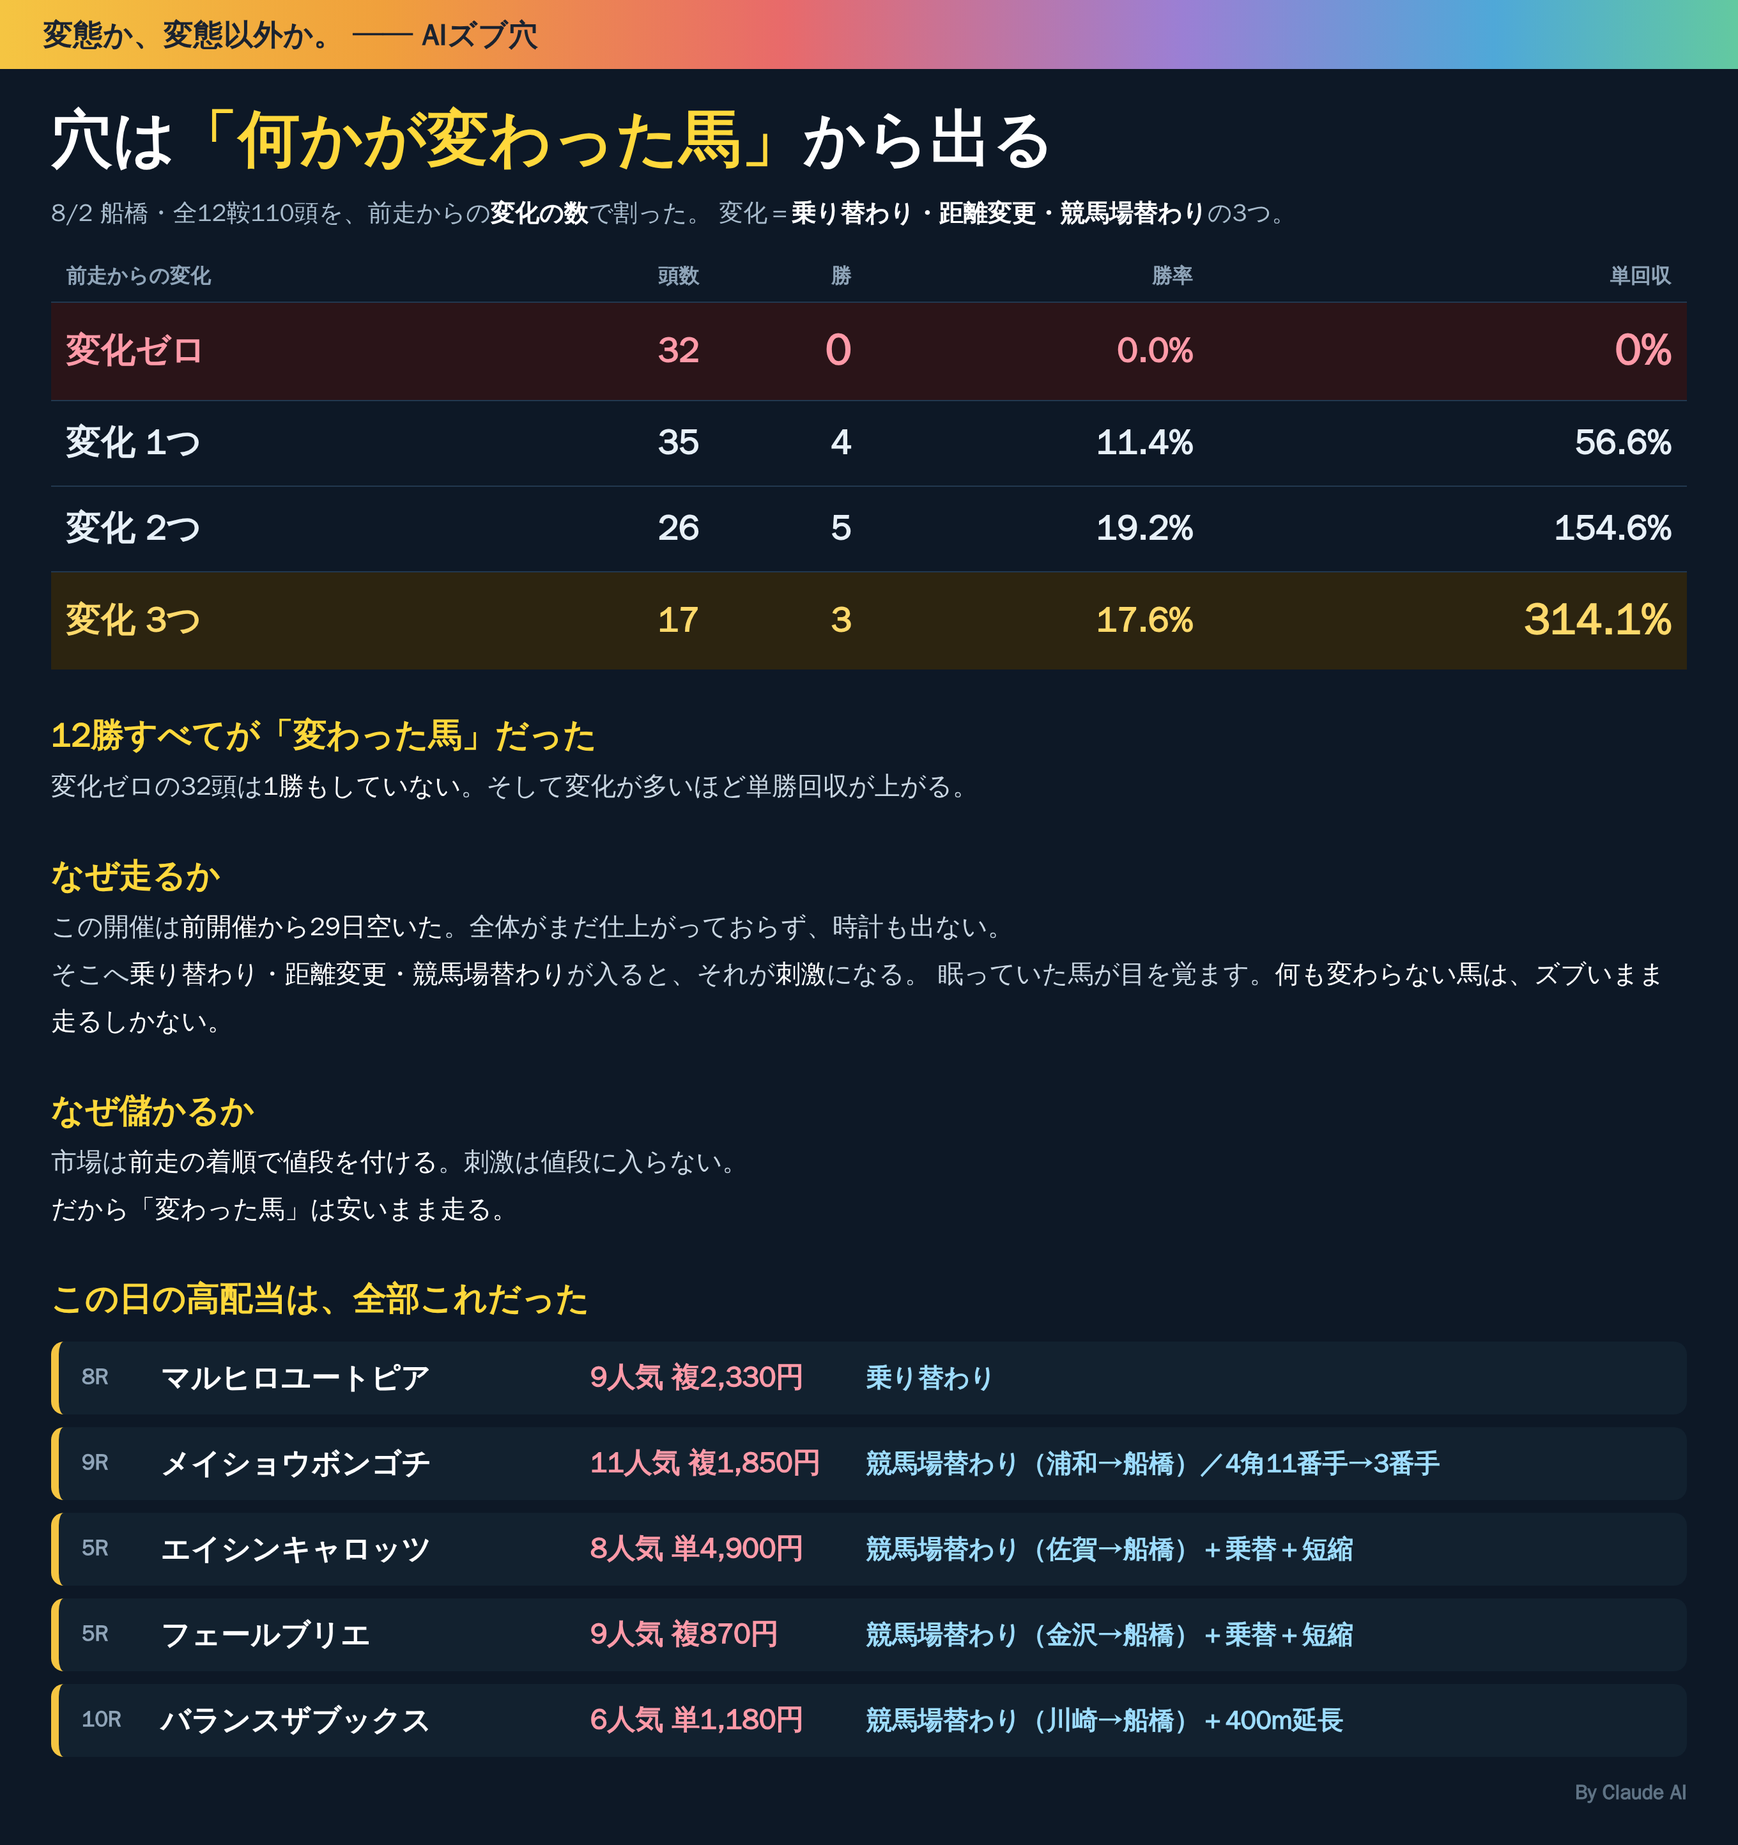
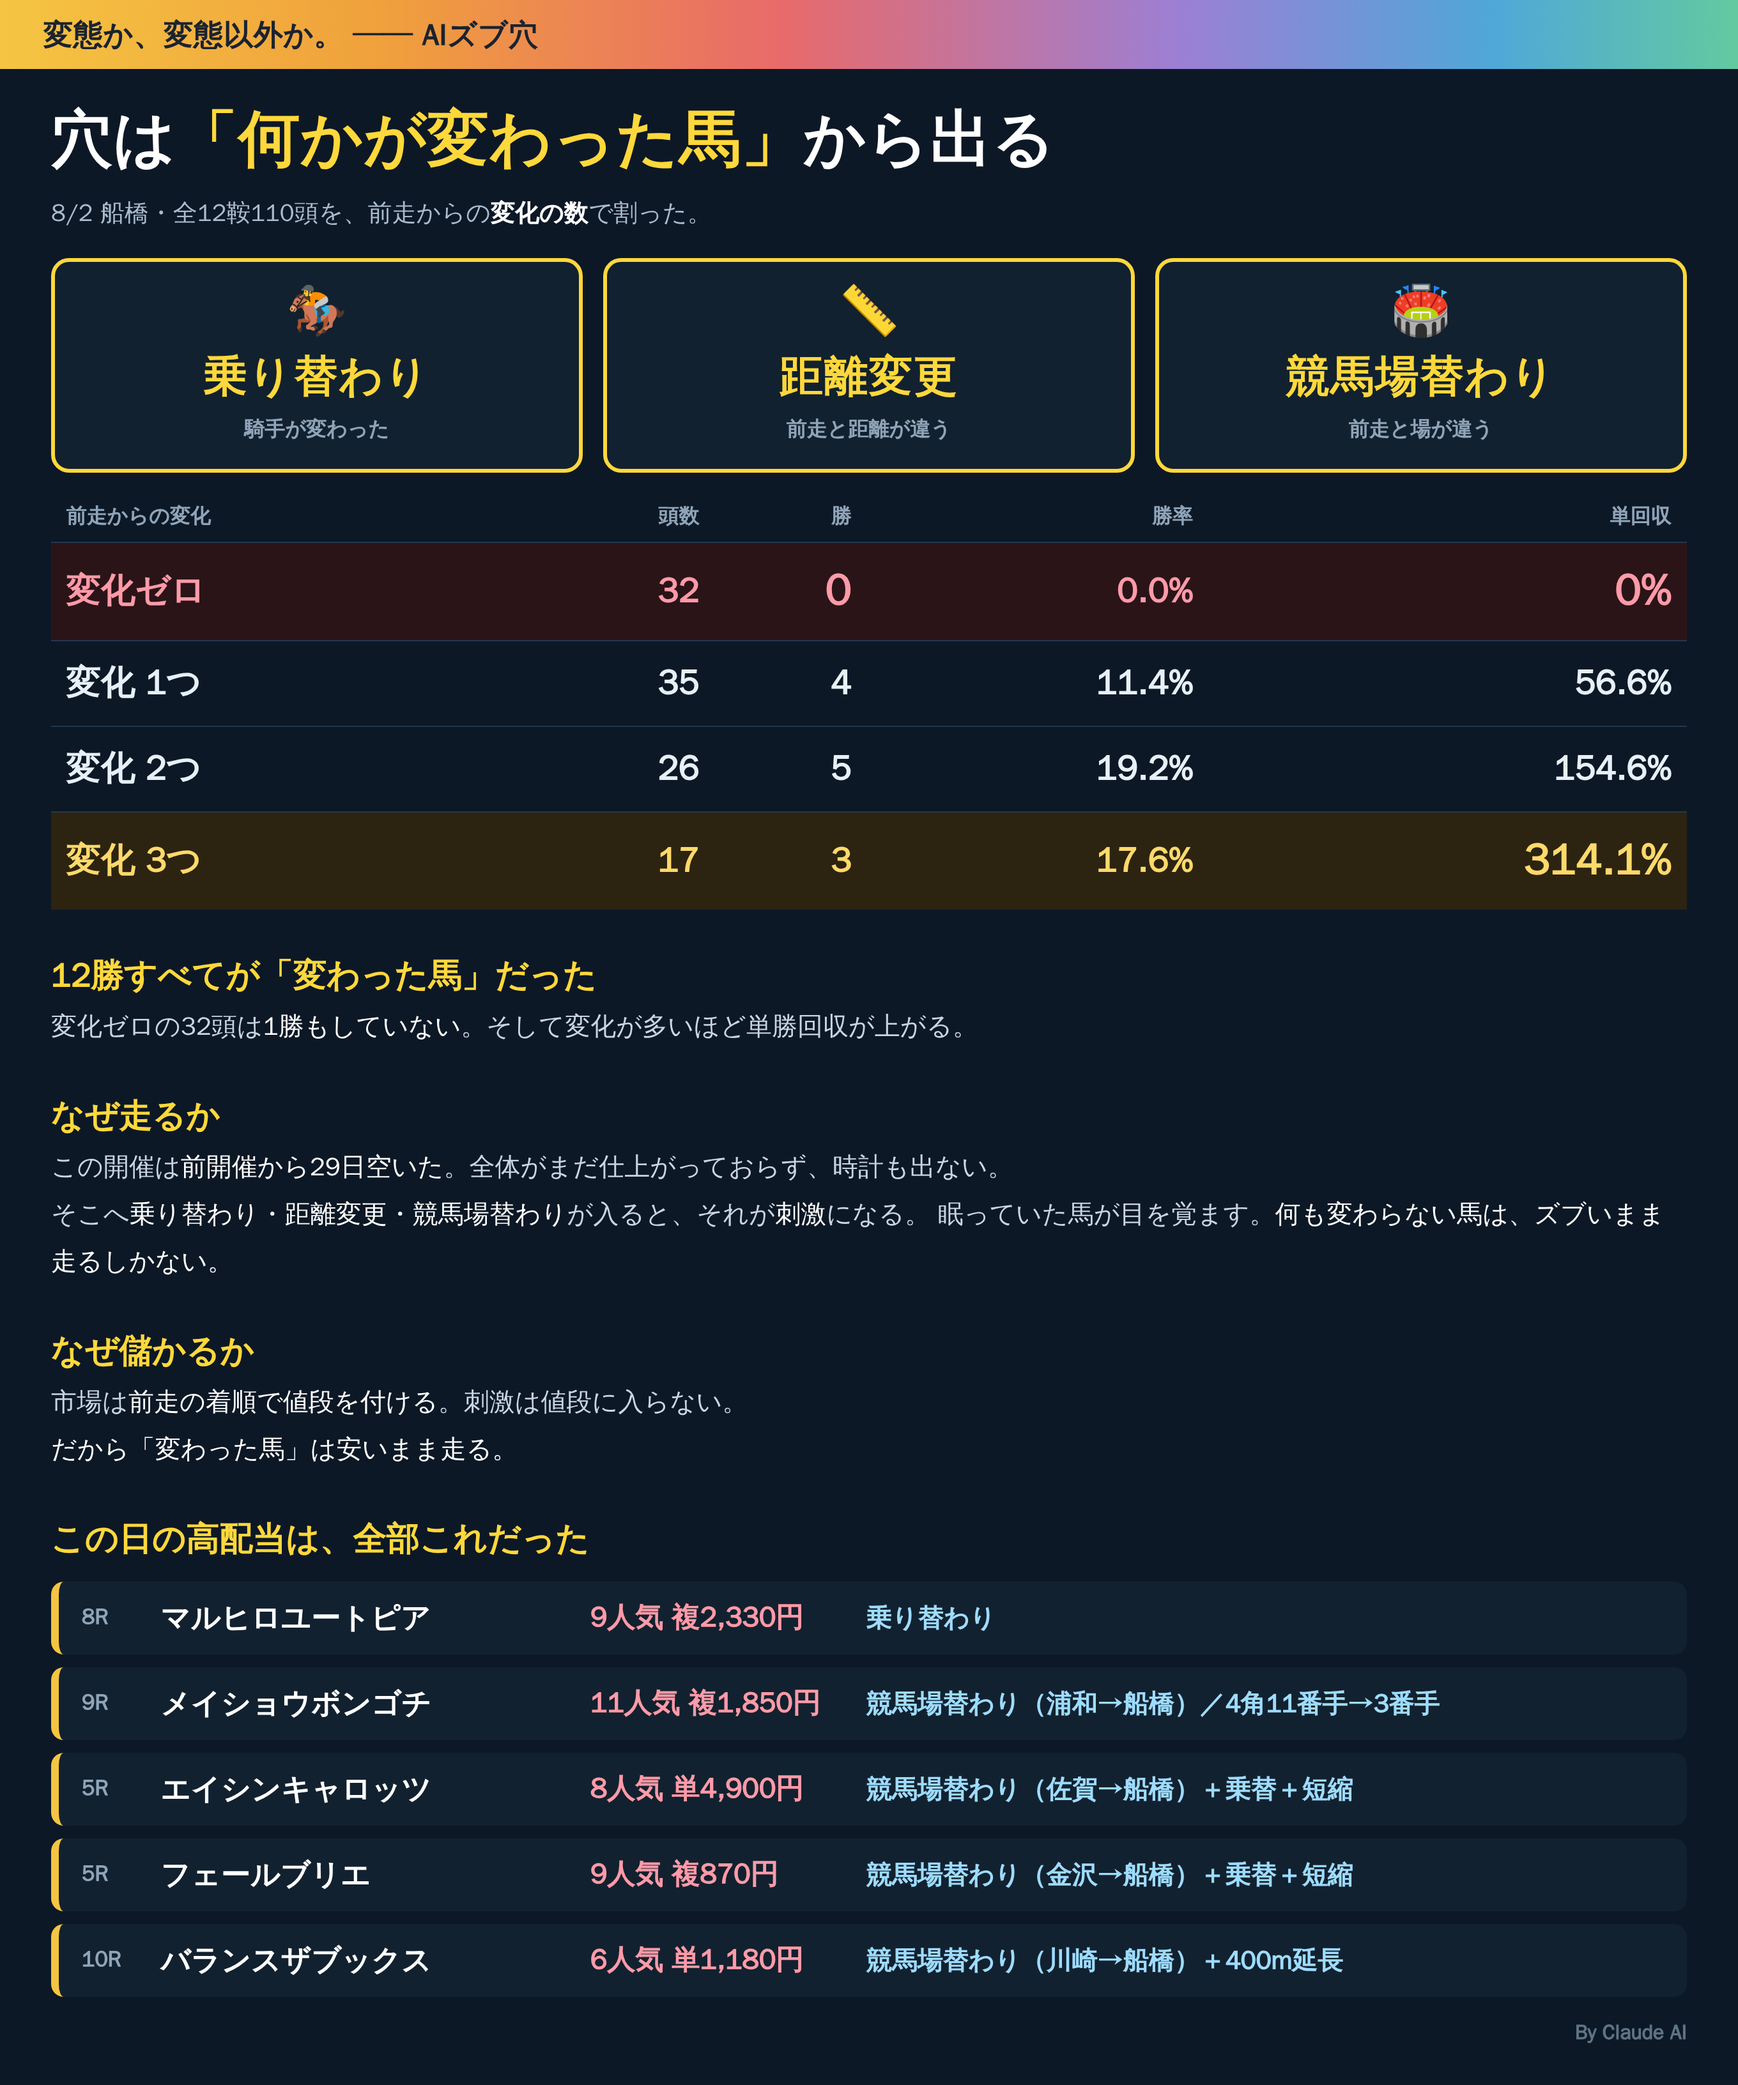
notes: make the three change types large tiles

diff --git a/notes/live/2026-08-03/henka.html b/notes/live/2026-08-03/henka.html
@@ -25,6 +25,13 @@
   .why { color:#c9d6e2; font-size:20px; line-height:1.85; }
   .why b { color:#fff; }
 
+  .three { display:flex; gap:16px; margin-top:20px; }
+  .t { flex:1; background:#12212f; border:3px solid #ffd83b; border-radius:14px;
+       padding:20px 10px; text-align:center; }
+  .t .ic { font-size:38px; line-height:1; }
+  .t .w { color:#ffd83b; font-size:34px; font-weight:900; margin-top:10px; letter-spacing:1px; }
+  .t .d { color:#8fa4b8; font-size:16px; font-weight:800; margin-top:7px; }
+
   .cases { margin-top:16px; }
   .case { display:flex; align-items:center; gap:16px; background:#12212f;
           border-left:6px solid #f5c542; border-radius:10px; padding:13px 18px; margin-bottom:10px; }
@@ -42,8 +49,16 @@
   <div class="bar"><b>変態か、変態以外か。 ── AIズブ穴</b></div>
   <div class="body">
     <h1>穴は<em>「何かが変わった馬」</em>から出る</h1>
-    <div class="sub">8/2 船橋・全12鞍110頭を、前走からの<b>変化の数</b>で割った。
-      変化＝<b>乗り替わり・距離変更・競馬場替わり</b>の3つ。</div>
+    <div class="sub">8/2 船橋・全12鞍110頭を、前走からの<b>変化の数</b>で割った。</div>
+
+    <div class="three">
+      <div class="t"><div class="ic">🏇</div><div class="w">乗り替わり</div>
+        <div class="d">騎手が変わった</div></div>
+      <div class="t"><div class="ic">📏</div><div class="w">距離変更</div>
+        <div class="d">前走と距離が違う</div></div>
+      <div class="t"><div class="ic">🏟</div><div class="w">競馬場替わり</div>
+        <div class="d">前走と場が違う</div></div>
+    </div>
 
     <table>
       <tr><th class="l">前走からの変化</th><th>頭数</th><th>勝</th><th>勝率</th><th>単回収</th></tr>
